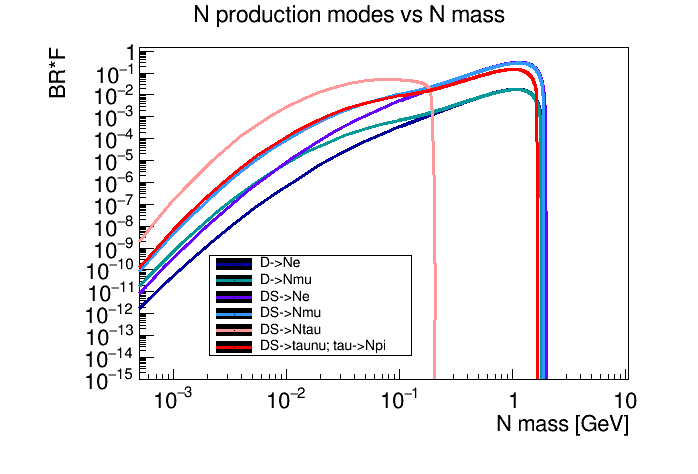
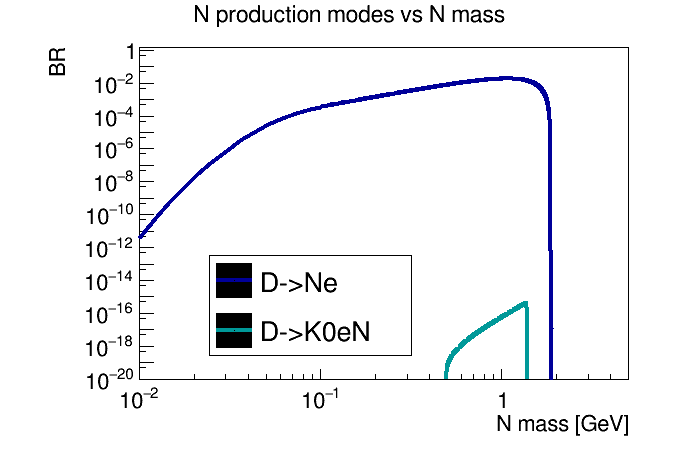
update

diff --git a/MyScripts/Others/GeneralPlots.C b/MyScripts/Others/GeneralPlots.C
@@ -13,6 +13,16 @@ Double_t DS = 1968.28;
 Double_t D0 = 1864.84;
 Double_t K = 493.68;
 Double_t K0 = 497.61;
+//Double_t Dlife = 1.04E-12;
+//Double_t D0life = 4.101E-13;
+Double_t Dlife = 1.04E-3;
+Double_t D0life = 4.101E-4;
+Double_t Vcs = 0.9734;
+Double_t Vcd = 0.2252;
+Double_t fDK0 = 0.725;
+Double_t fDpi0 = 0.146;
+Double_t fD0K = 0.736;
+Double_t fD0pi = 0.637;
 Double_t De2BR = 9.2E-9;
 Double_t Dm2BR = 3.74E-4;
 Double_t DSe2BR = 1.4E-7;
@@ -26,8 +36,6 @@ const int Masses = Mass/step;
 TString name = "";
 Double_t labelSize = 0.05;
 Double_t titleSize = 0.07;
-Double_t PiE = 0.;
-Double_t PiMu = 0.;
 Int_t counterProd = 0;
 Int_t counterDecay = 0;
 Int_t colors[13] = {602, 434, 887, 861, 623, 632, 797, 803, 402, 419, 416, 1, 923}; //blue+2, cyan+2, violet+7, azure+1, red-9, red, orange-3, orange+3, yellow+2, green+3, green, black, grey+3
@@ -50,8 +58,81 @@ Double_t PhaseSpaceFactor(Double_t Mass1, Double_t Mass2, Double_t Mass3, Double
   if(phaseSpace > 0.) {
     factor = (Mass1*Mass1*(Mass2*Mass2 + Mass3*Mass3)-TMath::Power(Mass2*Mass2-Mass3*Mass3,2))*TMath::Power(phaseSpace,0.5)/(Mass3*Mass3*TMath::Power(Mass1*Mass1-Mass3*Mass3,2));
   }
+  else {
+    //cout<<"[PhaseSpaceFactor] Warning: phasespace < 0."<<endl;
+    factor = 0.;
+  }
   
   return factor;
+}
+
+Double_t ThreeBodyBR(Double_t Mass1, Double_t Mass2, Double_t Mass3, Double_t Mass4) {
+
+  Double_t ENmin = Mass2; // N at rest, K and e back to back
+  Double_t ENmax = (Mass1*Mass1+Mass2*Mass2-TMath::Power(Mass4+Mass3, 2.))/(2.*Mass1); // N one way, K and e other way, their momenta summed equal to the N one
+  Double_t q2min = TMath::Power(Mass2+Mass4, 2.); // sum of masses of lepton pair
+  Double_t q2max = 3.*Mass2*Mass2+Mass4*Mass4; // sum of 4momenta of lepton pair, when K at rest and N and e back to back
+  Double_t tau, V, f, a, b;
+  Double_t br = 0.;
+
+  if (Mass1 >= (Mass2+Mass3+Mass4)) {
+    if (Mass1 == D) {
+      tau = Dlife;
+      if (Mass3 == K0) {
+	V = Vcs;
+	f = fDK0;
+      }
+      else if (Mass3 == pi0) {
+	V = Vcd;
+	f = fDpi0;
+      }
+      else {
+	cout<<"[ThreeBodyBR] Unknown daughter hadron"<<endl;
+	exit(1);
+      }
+    }
+    else if (Mass1 == D0) {
+      tau = D0life;
+      if (Mass3 == K) {
+        V = Vcs;
+	f = fD0K;
+      }
+      else if (Mass3 == pi) {
+        V = Vcd;
+	f = fD0pi;
+      }
+      else {
+        cout<<"[ThreeBodyBR] Unknown daughter hadron"<<endl;
+        exit(1);
+      }
+    }
+
+    a = tau*V*V*GF*GF/(64*TMath::Power(TMath::Pi(), 3.)*Mass1*Mass1);
+
+    //(f*f*(x*(Mass2*Mass2 + Mass4*Mass4) - TMath::Power(Mass2*Mass2 - Mass4*Mass4, 2.)) + 2.*f*f*(Mass2*Mass2*(2.*Mass1*Mass1 - 2.*Mass3*Mass3 -4.*ENmax*Mass1 - Mass4*Mass4 + Mass2*Mass2 + x) + Mass4*Mass4*(4.*ENmax*Mass1 + Mass4*Mass4 - Mass2*Mass2 - x)) + f*f*((4.*ENmax*Mass1 + Mass4*Mass4 - Mass2*Mass2 - x)*(2.*Mass1*Mass1 - 2.*Mass3*Mass3 - 4.*ENmax*Mass1 - Mass4*Mass4 + Mass2*Mass2 + x) - (2.*Mass1*Mass1 + 2.*Mass3*Mass3 - x)*(x - Mass2*Mass2 - Mass4*Mass4)));
+    
+    TF1 *func = new TF1("func", "([0]*[0]*(x*([2]*[2] + [4]*[4]) - TMath::Power([2]*[2] - [4]*[4], 2.)) + 2.*[0]*[0]*([2]*[2]*(2.*[1]*[1] - 2.*[3]*[3] -4.*[5]*[1] - [4]*[4] + [2]*[2] + x) + [4]*[4]*(4.*[5]*[1] + [4]*[4] - [2]*[2] - x)) + [0]*[0]*((4.*[5]*[1] + [4]*[4] - [2]*[2] - x)*(2.*[1]*[1] - 2.*[3]*[3] - 4.*[5]*[1] - [4]*[4] + [2]*[2] + x) - (2.*[1]*[1] + 2.*[3]*[3] - x)*(x - [2]*[2] - [4]*[4])))", q2min, q2max);
+    
+    func->SetParameter(0, f);
+    func->SetParameter(2, Mass2);
+    func->SetParameter(4, Mass4);
+    func->SetParameter(1, Mass1);
+    func->SetParameter(3, Mass3);
+    func->SetParameter(5, ENmax);
+
+    ROOT::Math::WrappedTF1 wf1(*func);
+    ROOT::Math::GaussLegendreIntegrator ig;
+    ig.SetFunction(wf1);
+    b = ig.Integral(q2min, q2max);
+    br = a*b;
+    cout<<Mass2<<" "<<q2min<<" "<<q2max<<endl;
+  }
+  else {
+    //cout<<"[ThreeBodyBR] Warning: mother mass smaller than daughter masses"<<endl;
+    br = 0.;
+  }
+  
+  return br;
 }
 
 Double_t GammaLeptonNu3(Double_t Mass1, Double_t Mass2, Double_t Mass3) {
@@ -80,6 +161,10 @@ Double_t GammaLeptonNu3(Double_t Mass1, Double_t Mass2, Double_t Mass3) {
       b = 1 - 8.*r*r + 8.*TMath::Power(r, 6) - TMath::Power(r, 8) -12.*TMath::Power(r, 4)*TMath::Log(r*r);
       gamma_l_l_nu = a*b;
     }
+  }
+  else {
+    //cout<<"[GammaLeptonNu3] Warning: mother mass smaller than daughter masses"<<endl;
+    gamma_l_l_nu = 0.;
   }
   
   return gamma_l_l_nu;
@@ -113,6 +198,10 @@ Double_t Gamma2(Double_t Mass1, Double_t Mass2, Double_t Mass3, Double_t form) {
       exit(1);
     }
   }
+  else {
+    //cout<<"[Gamma2] Warning: mother mass smaller than daughter masses"<<endl;
+    gamma_2 = 0.;
+  }
   
   return gamma_2;
 }
@@ -120,7 +209,7 @@ Double_t Gamma2(Double_t Mass1, Double_t Mass2, Double_t Mass3, Double_t form) {
 Double_t GammaTot(Double_t MN) {
 
   Double_t gammaTot = 0.;
-
+  
   if (MN < 2*e) 
     gammaTot = 0.;
   else if (MN >= 2*e && MN < (e+mu)) 
@@ -213,45 +302,31 @@ Double_t ComputeBR(Double_t Mass1, Double_t Mass2, Double_t Mass3, Double_t Mass
 	  exit(1);
 	}
       }
-    }
-    else if (TwoBody == kFALSE) {
-      if (Factor > 0. && Mass1 >= (Mass2+Mass3+Mass4)) {
-	if (Mass1 == D && Mass3 == K0) {
-	  if (Mass4 == e)
-	    brt = 0.;
-	  else if (Mass4 == mu)
-	    brt = 0.;
-	  else {
-	    cout<<"[ComputeBR] Unknown N 3-body production mode"<<endl;
-	    exit(1);
-	  }
-	}
-	else if (Mass1 == D0 && Mass3 == K) {
-	  if (Mass4 == e)
-	    brt = 0.;
-	  else if (Mass4 == mu)
-	    brt = 0.;
-	  else {
-	    cout<<"[ComputeBR] Unknown N 3-body production mode"<<endl;
-	    exit(1);
-	  }
-	}
+      else {
+	//cout<<"[ComputeBR] Warning: phasespace factor < 0. or mother mass smaller than daughter masses"<<endl;
+	brt = 0.;
       }
     }
-  }      
+    else if (TwoBody == kFALSE) 
+      brt = ThreeBodyBR(Mass1, Mass2, Mass3, Mass4);
+  }
   else if (Prod == kFALSE) {
     if (TwoBody == kTRUE) {
       if (Mass2 == pi || Mass3 == pi) {
 	if (Gamma2(Mass1, Mass2, Mass3, fPi) > 0.)
 	  brt = Gamma2(Mass1, Mass2, Mass3, fPi)/GammaTot(Mass1);
-	else
+	else {
+	  //cout<<"[ComputeBR] Warning: two-body decay width or total decay width might be 0 or negative"<<endl;
 	  brt = 0.;
+	}
       }
       else if (Mass2 == rho || Mass3 == rho) {
 	if (Gamma2(Mass1, Mass2, Mass3, fRho) > 0.)
 	  brt = Gamma2(Mass1, Mass2, Mass3, fRho)/GammaTot(Mass1);
-	else
+	else {
+	  //cout<<"[ComputeBR] Warning: two-body decay width or total decay width might be 0 or negative"<<endl;
 	  brt = 0.;
+	}
       }
       else {
 	cout<<"[ComputeBR] Unknown N 2-body decay mode"<<endl;
@@ -262,8 +337,7 @@ Double_t ComputeBR(Double_t Mass1, Double_t Mass2, Double_t Mass3, Double_t Mass
       if (GammaLeptonNu3(Mass1, Mass2, Mass3) > 0. && GammaTot(Mass1) > 0.)
 	brt = GammaLeptonNu3(Mass1, Mass2, Mass3)/GammaTot(Mass1);
       else {
-	GammaLeptonNu3(Mass1, Mass2, Mass3);
-	GammaTot(Mass1);
+	//cout<<"[ComputeBR] Warning: three-body decay width or total decay width might be 0 or negative"<<endl;
 	brt = 0.;
       }
     }
@@ -305,9 +379,11 @@ void MassScan(Double_t Mass1, Double_t Mass2, Double_t Mass3, Bool_t Prod, Bool_
       for (Int_t MN = InitialMass; MN < Mass; MN += step) {
 	PS = PhaseSpace(Mass1, MN, Mass2);
 	PSF = PhaseSpaceFactor(Mass1, MN, Mass2, PS);
-	BR = ComputeBR(Mass1, MN, Mass2, 0, PSF, Prod, TwoBody);
+	BR = ComputeBR(Mass1, MN, Mass2, 0., PSF, Prod, TwoBody);
 	xMN[MN] = MN/1000.;
 	yBR[MN] = BR;
+	if (MN == 500)
+	  cout<<BR<<endl;
       }
     }
     else if (TwoBody == kFALSE) {
@@ -338,7 +414,7 @@ void MassScan(Double_t Mass1, Double_t Mass2, Double_t Mass3, Bool_t Prod, Bool_
   TGraph* gr = new TGraph(Mass, xMN, yBR);
 
   gr->SetNameTitle(Title.c_str(), Title.c_str());
-  gr->SetLineWidth(3);
+  gr->SetLineWidth(4);
   
   if (Prod == kTRUE) {
     gr->SetLineColor(colors[counterProd]);
@@ -348,7 +424,7 @@ void MassScan(Double_t Mass1, Double_t Mass2, Double_t Mass3, Bool_t Prod, Bool_
     gr->SetLineColor(colors[counterDecay]);
     counterDecay++;
   }
-
+  gr->Draw();
   M->Add(gr);
 }
 
@@ -363,18 +439,25 @@ void GeneralPlots() {
   // HNL production via two-body decay
 
   MassScan(D,   e,   0., 1, 1, "D->Ne",               Mprod);
-  MassScan(D,   mu,  0., 1, 1, "D->Nmu",              Mprod);
-  MassScan(DS,  e,   0., 1, 1, "DS->Ne",              Mprod);
-  MassScan(DS,  mu,  0., 1, 1, "DS->Nmu",             Mprod);
-  MassScan(DS,  tau, 0., 1, 1, "DS->Ntau",            Mprod);
-  MassScan(tau, pi,  0., 1, 1, "DS->taunu; tau->Npi", Mprod);
+  //MassScan(D,   mu,  0., 1, 1, "D->Nmu",              Mprod);
+  //MassScan(DS,  e,   0., 1, 1, "DS->Ne",              Mprod);
+  //MassScan(DS,  mu,  0., 1, 1, "DS->Nmu",             Mprod);
+  //MassScan(DS,  tau, 0., 1, 1, "DS->Ntau",            Mprod);
+  //MassScan(tau, pi,  0., 1, 1, "DS->taunu; tau->Npi", Mprod);
 
   // HNL production via three-body decay
 
-  //MassScan(D, K0, e, 1, 0, "D->K0eN");
+  MassScan(D,  K0,  e,  1, 0, "D->K0eN",   Mprod);
+  //MassScan(D,  pi0, e,  1, 0, "D->pi0eN",  Mprod);
+  //MassScan(D0, K,   e,  1, 0, "D0->KeN",   Mprod);
+  //MassScan(D0, pi,  e,  1, 0, "D0->pieN",  Mprod);
+  //MassScan(D,  K0,  mu, 1, 0, "D->K0muN",  Mprod);
+  //MassScan(D,  pi0, mu, 1, 0, "D->pi0muN", Mprod);
+  //MassScan(D0, K,   mu, 1, 0, "D0->KmuN",  Mprod);
+  //MassScan(D0, pi,  mu, 1, 0, "D0->pimuN", Mprod);
   
   // HNL decay via two- and three-body decay
-    
+  /*
   MassScan(e,   e,   0., 0, 0, "N->eenu",     Mdecay);
   MassScan(e,   mu,  0., 0, 0, "N->emunu",    Mdecay);
   MassScan(pi,  e,   0., 0, 1, "N->pie",      Mdecay);
@@ -387,12 +470,12 @@ void GeneralPlots() {
   MassScan(mu,  tau, 0., 0, 0, "N->mutaunu",  Mdecay);
   MassScan(rho, tau, 0., 0, 1, "N->rhotau",   Mdecay);
   MassScan(tau, tau, 0., 0, 0, "N->tautaunu", Mdecay);
-  
+  */  
   TGaxis::SetMaxDigits(2);
   
   Mprod->Draw("AC");
   Mprod->GetXaxis()->SetTitle("N mass [GeV]");
-  Mprod->GetYaxis()->SetTitle("BR*F");
+  Mprod->GetYaxis()->SetTitle("BR");
   Mprod->GetXaxis()->SetTitleOffset(1.2);
   Mprod->GetXaxis()->SetTitleSize(labelSize);
   Mprod->GetYaxis()->SetTitleSize(labelSize);
@@ -400,8 +483,9 @@ void GeneralPlots() {
   Mprod->GetYaxis()->SetLabelSize(labelSize);
   gPad->SetLogx();
   gPad->SetLogy();
-  Mprod->SetMinimum(1.E-15);
+  Mprod->SetMinimum(1.E-20);
   Mprod->SetMaximum(1.5);
+  Mprod->GetXaxis()->SetLimits(0.01, 5.);
   c->SetLeftMargin(0.2);
   c->SetBottomMargin(0.2);
   gPad->BuildLegend(0.3, 0.25, 0.59, 0.46);
@@ -412,10 +496,10 @@ void GeneralPlots() {
   TImage *img = TImage::Create();
   img->FromPad(gPad);
   img->WriteImage("/home/li/GitVarious/HeavyNeutrino/Graphs/NProdGraph.png");
-
+  /*
   Mdecay->Draw("AC");
   Mdecay->GetXaxis()->SetTitle("N mass [GeV]");
-  Mdecay->GetYaxis()->SetTitle("BR*F");
+  Mdecay->GetYaxis()->SetTitle("BR");
   Mdecay->GetXaxis()->SetTitleOffset(1.2);
   Mdecay->GetXaxis()->SetTitleSize(labelSize);
   Mdecay->GetYaxis()->SetTitleSize(labelSize);
@@ -425,6 +509,7 @@ void GeneralPlots() {
   gPad->SetLogy();
   Mdecay->SetMinimum(1.E-15);
   Mdecay->SetMaximum(1.5);
+  Mdecay->GetXaxis()->SetLimits(0.01, 5.);
   c->SetLeftMargin(0.2);
   c->SetBottomMargin(0.2);
   gPad->BuildLegend(0.24, 0.25, 0.42, 0.56);
@@ -435,4 +520,5 @@ void GeneralPlots() {
   TImage *img1 = TImage::Create();
   img1->FromPad(gPad);
   img1->WriteImage("/home/li/GitVarious/HeavyNeutrino/Graphs/NDecayGraph.png");
+  */
 }
